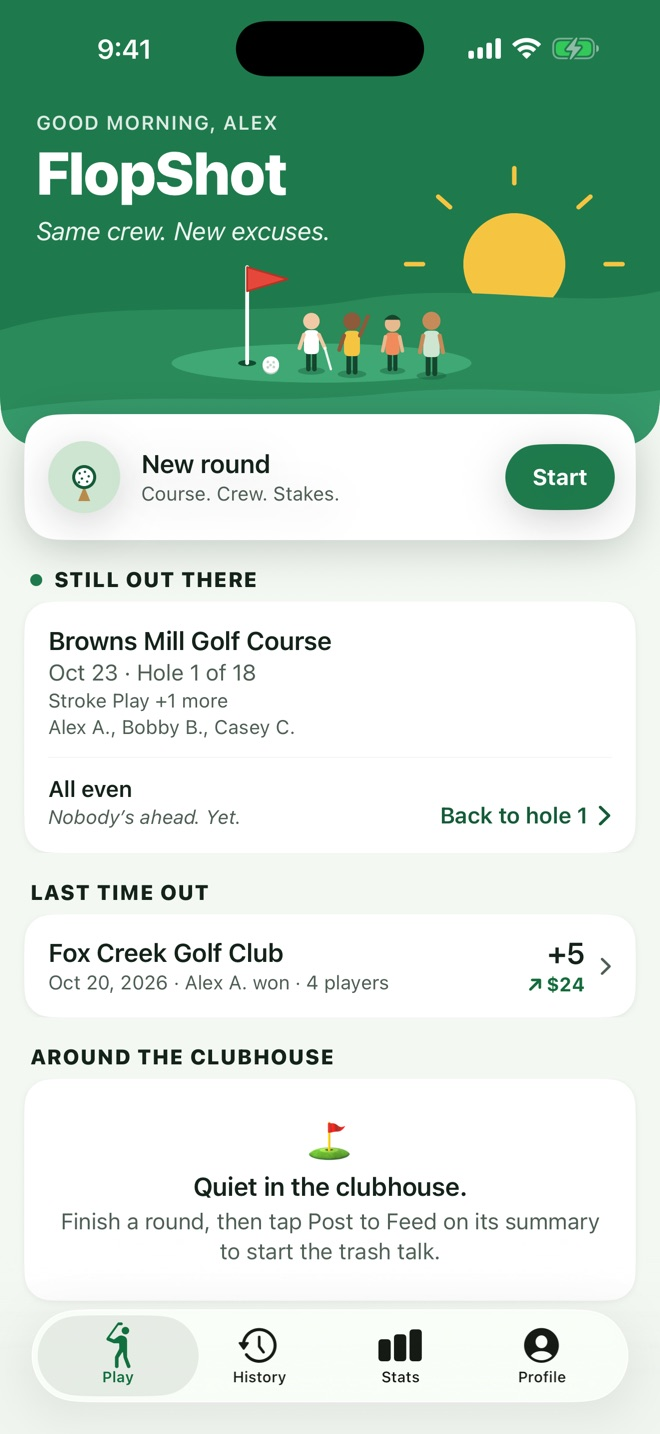
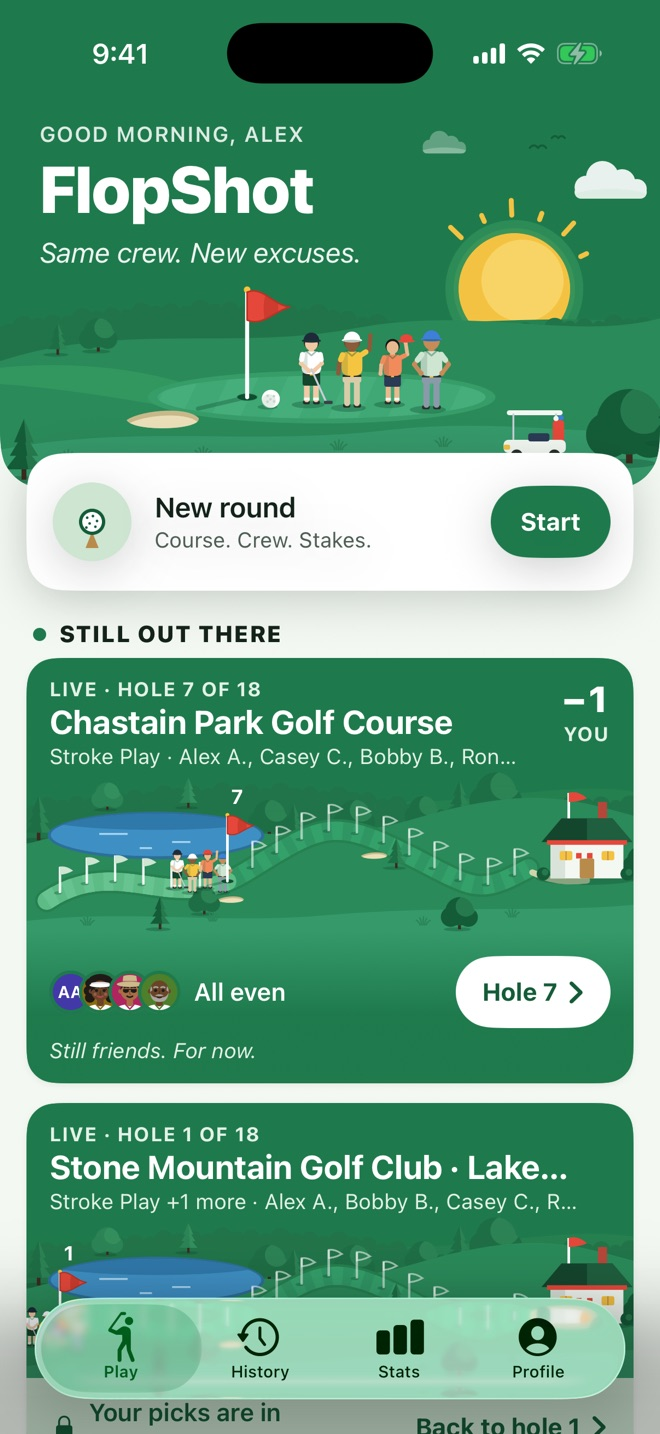
Cover yardages, spectators, tee-off posts, notifications and score fixes
Privacy and Terms are effective October 28, 2026. Location for yardages
stays on the phone; push tokens, spectators, live Feed rounds, who
reacted, fix history and OpenStreetMap are described. Support, Home and
the App Review guide explain the new features, and Home links the
TestFlight beta. New screenshots from made-up local test accounts: Play
Home, Score Entry with yardage, the Hole Map, the Feed, Predictions,
Settle Up and Stats.

diff --git a/privacy.html b/privacy.html
@@ -17,9 +17,9 @@
   </nav>
   <main>
     <h1>Privacy Policy</h1>
-    <p class="meta">Effective October 23, 2026</p>
+    <p class="meta">Effective October 28, 2026</p>
 
-    <p>This policy explains what the FlopShot app (“FlopShot”, “we”) collects, why, who can see it, and how you can delete it. The short version: we collect what the app needs to keep score, sync your rounds and let you play with friends. We don’t sell your data, show ads, or track you across other apps or websites.</p>
+    <p>This policy explains what the FlopShot app (“FlopShot”, “we”) collects, why, who can see it, and how you can delete it. The short version: we collect what the app needs to keep score, sync your rounds and let you play with friends. Your location never leaves your phone. We don’t sell your data, show ads, or track you across other apps or websites.</p>
 
     <h2>Using FlopShot without an account</h2>
     <p>Keeping score works without signing in. Your rounds, players and settings then stay on your phone only, and we receive none of it.</p>
@@ -42,25 +42,33 @@
       <li>Rounds: the course and tees, the players, scores, and any putts, fairways and greens you choose to track.</li>
       <li>The games you play, what each player won or lost, and the payments you mark as paid.</li>
       <li>Your Predictions picks for a round. Other players can’t see them until the round ends.</li>
+      <li>Fixes to a finished round: who changed which score, from what to what, and when.</li>
+      <li>Rounds you’re invited to watch or choose to watch, and the picks you make as a spectator.</li>
       <li>Players you add who don’t have an account (“guests”), with the name and optional Venmo username you type for them. Please only add details your friends are happy for you to add.</li>
       <li>Courses you search for or add. To find a course, our server sends the search words (never your personal details) to our course-data provider.</li>
     </ul>
     <h3>Friends and the Feed</h3>
     <ul>
       <li>Your friends, friend requests, round invitations and the accounts you block.</li>
-      <li>Quips and replies you post on the Feed, and your reactions.</li>
+      <li>Quips and replies you post on the Feed, including a line you post as you tee off, and your reactions.</li>
       <li>Reports you make about a quip or reply, with the reason you give and a copy of what you reported.</li>
     </ul>
+    <h3>Notifications (if you allow them)</h3>
+    <p>A push token that Apple gives your phone for FlopShot, so we can send round invites and friend requests, and your choices in <strong>Settings › Notifications</strong>. Pushes name who it’s from and the course, never money. Signing out stops pushes to that phone.</p>
     <h3>Support</h3>
     <p>Anything you send us when you ask for help.</p>
 
+    <h3 id="location">Your location (yardages)</h3>
+    <p>If you allow it, FlopShot uses your iPhone’s location to show the distance to the green and your spot on the Hole Map. It is used on your phone only, while a hole is on screen, and is <strong>never saved, sent to us or shared</strong>. You can say no, or turn off <strong>Settings › During a round › Show yardages</strong>; keeping score works the same either way. The hole maps themselves are course data (see OpenStreetMap below), not anything about you.</p>
+
     <h3>What we don’t collect</h3>
-    <p>We don’t collect your location, contacts, photos, advertising identifier or browsing activity. FlopShot has no ads and no third-party analytics or tracking. If you’ve allowed it in your iPhone’s settings, Apple may share crash reports and usage statistics with us; those don’t identify you.</p>
+    <p>We don’t collect your location (it stays on your phone, as above), contacts, photos, advertising identifier or browsing activity. FlopShot has no ads and no third-party analytics or tracking. If you’ve allowed it in your iPhone’s settings, Apple may share crash reports and usage statistics with us; those don’t identify you.</p>
 
     <h2>How we use it</h2>
     <ul>
       <li>To run the app: keep score, back up and sync your rounds between phones, and work out the money.</li>
       <li>To show your rounds and posts to the people you choose (see below).</li>
+      <li>To send the notifications you allow.</li>
       <li>To keep the Feed safe: we block slurs and other banned words, and we review reports to remove content or suspend accounts that break the <a href="terms.html#community">community rules</a>.</li>
       <li>To answer you when you contact us, and to fix problems.</li>
     </ul>
@@ -68,9 +76,10 @@
 
     <h2>Who can see what</h2>
     <ul>
-      <li><strong>Players in a round</strong> see that round in full, including the money.</li>
-      <li><strong>Your friends</strong> can see your rounds’ scores and results if you allow it (Settings › Privacy › Who sees your rounds). Friends who weren’t in a round never see its money.</li>
-      <li><strong>The Feed:</strong> a round you post, and your quips and replies, are shown to friends of the people who posted that round. The Feed never shows money.</li>
+      <li><strong>Players in a round</strong> see that round in full, including the money and who fixed which score after it finished.</li>
+      <li><strong>Your friends</strong> can see your rounds’ scores and results if you allow it (Settings › Privacy › Who sees your rounds), and a finished round’s Predictions picks and points. Friends who weren’t in a round never see its money.</li>
+      <li><strong>Spectators:</strong> friends a player invites to watch, and friends who join from a tee-off post, see the round’s players and scores live, never its money. Spectators’ picks, like players’ picks, stay hidden until the round finishes; then everyone in the round and its spectators can see them.</li>
+      <li><strong>The Feed:</strong> a round you post, and your quips and replies, are shown to friends of the people who posted that round. If you post as you tee off, they see the round while it’s being played (the players and how many holes are done, with no leader), and can open it to follow along. The Feed never shows money. Anyone who can see a post can see who reacted to it.</li>
       <li><strong>Your @handle and display name</strong> can be found by other signed-in users so they can add you as a friend or invite you. You choose who can invite you.</li>
       <li><strong>Your Venmo username</strong> is shown to people you play with, and to friends who add you to a round, so they can pay you.</li>
       <li>Someone you block can’t see your posts, and you can’t see theirs.</li>
@@ -81,7 +90,9 @@
     <ul>
       <li><strong>Supabase</strong>: our database, sign-in and server functions. Your account and synced data are stored with Supabase.</li>
       <li><strong>Apple and Google</strong>: sign-in. Their own privacy policies apply to your Apple or Google account.</li>
+      <li><strong>Apple</strong> also delivers push notifications, and provides the satellite pictures on the Hole Map (Apple Maps).</li>
       <li><strong>GolfCourseAPI</strong>: course data. It receives course search words only.</li>
+      <li><strong>OpenStreetMap</strong>: hole maps (greens, tees, bunkers and water). Our server asks OpenStreetMap’s map servers, and a copy run by OpenStreetMap France, about a course (its name and location). They never receive anything about you. Map data © OpenStreetMap contributors.</li>
       <li><strong>Resend</strong>: sends us an email when someone reports a quip or reply, containing the reported text and the accounts involved.</li>
     </ul>
     <p>When you tap a Venmo link, the Venmo app or website opens. FlopShot never sees or handles the payment, and Venmo’s own privacy policy applies.</p>
@@ -100,6 +111,8 @@
     <ul>
       <li>your profile, handle, handicap index and Venmo username;</li>
       <li>your friendships, invitations and blocks;</li>
+      <li>the rounds you watched and your spectator picks;</li>
+      <li>your push tokens and notification choices;</li>
       <li>your Feed quips, replies and reactions;</li>
       <li>rounds that nobody else with an account was in.</li>
     </ul>
@@ -109,6 +122,8 @@
     <h2>Your choices</h2>
     <ul>
       <li>Edit your profile and privacy choices in Profile and Settings.</li>
+      <li>Turn notifications on or off in <strong>Settings › Notifications</strong> (or in your iPhone’s Settings), and location in your iPhone’s Settings or with <strong>Settings › During a round › Show yardages</strong>.</li>
+      <li>Stop watching a round from its menu; decline an invitation to watch with <strong>×</strong>.</li>
       <li>Download your rounds as a spreadsheet file: <strong>Settings › Your data › Export my rounds</strong>.</li>
       <li>Delete a quip or reply you posted, block someone, or report something from the <strong>…</strong> button next to it.</li>
       <li>Ask us for a copy of your data, or for help deleting it, at <a href="mailto:flopshot.support@gmail.com">flopshot.support@gmail.com</a>.</li>

diff --git a/index.html b/index.html
@@ -4,7 +4,7 @@
   <meta charset="utf-8">
   <meta name="viewport" content="width=device-width, initial-scale=1">
   <title>FlopShot</title>
-  <meta name="description" content="FlopShot is a golf scorebook for friends who play money games: scores, Skins, Nassau, Wolf and more, settled up at the end.">
+  <meta name="description" content="FlopShot is a golf scorebook for friends who play money games: scores, Skins, Nassau, Wolf, Predictions and more, GPS yardages, and settling up at the end.">
   <link rel="stylesheet" href="style.css">
 </head>
 <body>
@@ -19,17 +19,21 @@
     <h1>FlopShot</h1>
     <p class="meta">A golf scorebook for your regular group.</p>
     <p>FlopShot keeps score for your round and the side games your group plays: Skins, Nassau, Wolf, Snake, Bingo Bango Bongo, Predictions and more. At the end it shows who owes whom, so settling up takes a minute. It keeps track of the money; it never holds or moves any.</p>
-    <p>Sign in to back up your rounds, score live with friends on their own phones, and post a finished round to your friends’ feed for a little trash talk. Keeping score works without an account.</p>
+    <p>On mapped courses it shows the yardage to the green as you walk up, with a satellite Hole Map for the rest of the hole. Your location never leaves your phone.</p>
+    <p>Sign in to back up your rounds, score live with friends on their own phones, and post your round to your friends’ feed as you tee off for a little trash talk. Friends can watch along live and make their own picks, and nobody but the players ever sees the money. Keeping score works without an account.</p>
     <h2>A look inside</h2>
     <div class="gallery">
-      <figure><img src="images/p1-playhome.jpg" alt="Play Home: a round in progress at Browns Mill Golf Course and the last round, won with plus 24 dollars" width="660" height="1434" loading="lazy"><figcaption>Your rounds at a glance</figcaption></figure>
-      <figure><img src="images/p2-summary.jpg" alt="Round Summary for Fox Creek Golf Club: a 67, putts, fairways and greens, and the scorecard showing Alex won by 4" width="660" height="1434" loading="lazy"><figcaption>The scorecard, settled</figcaption></figure>
-      <figure><img src="images/p3-settle.jpg" alt="Settle Up: Bobby pays Alex 4 dollars, Casey pays Alex 4 dollars, Ronny pays Alex 16 dollars, with Mark paid buttons" width="660" height="1434" loading="lazy"><figcaption>Who owes whom</figcaption></figure>
-      <figure><img src="images/p4-predictions.jpg" alt="Predictions results: each player's points and winnings, and your picks marked right or wrong" width="660" height="1434" loading="lazy"><figcaption>Predictions: make your picks before you tee off</figcaption></figure>
+      <figure><img src="images/p1-playhome.jpg" alt="Play Home: a live round at Chastain Park Golf Course on hole 7, with the group's avatars and Alex one under par" width="660" height="1434" loading="lazy"><figcaption>Your rounds at a glance</figcaption></figure>
+      <figure><img src="images/p2-score-entry.jpg" alt="Score Entry on hole 7, par 4: 154 yards to the green, Alex leading by 3, and a score row for each of four players" width="660" height="1434" loading="lazy"><figcaption>Score it hole by hole, yardage included</figcaption></figure>
+      <figure><img src="images/p3-hole-map.jpg" alt="Hole Map: a satellite view of hole 1 with the green, a bunker and water drawn on, a blue dot for the golfer, and front 154, center 164, back 174 yards" width="660" height="1434" loading="lazy"><figcaption>The Hole Map: front, center and back</figcaption></figure>
+      <figure><img src="images/p4-feed.jpg" alt="Around the clubhouse: Bobby's finished round with a quip, reactions and replies, and a live round Alex posted at the first tee" width="660" height="1434" loading="lazy"><figcaption>Trash talk, live from the course</figcaption></figure>
+      <figure><img src="images/p5-predictions.jpg" alt="Predictions results: Alex first with 10 of 22 points and plus 13 dollars, each player's points, and the picks Alex called right" width="660" height="1434" loading="lazy"><figcaption>Predictions: make your picks before you tee off</figcaption></figure>
+      <figure><img src="images/p6-settle.jpg" alt="Settle Up: Bobby pays Alex 9 dollars, Casey pays Alex 11 dollars, Ronny pays Alex 8 dollars, each with Pay on Venmo and Mark paid" width="660" height="1434" loading="lazy"><figcaption>Who owes whom</figcaption></figure>
+      <figure><img src="images/p7-stats.jpg" alt="Stats: plus 10.8 average to par over 12 rounds, scoring mix, putts, fairways, greens in regulation and penalties" width="660" height="1434" loading="lazy"><figcaption>Stats that keep score on you</figcaption></figure>
     </div>
     <p class="meta">Screens from a test account. Names and rounds are made up.</p>
     <div class="note">
-      <p><strong>FlopShot is in a private beta.</strong> If a friend sent you here, ask them for a TestFlight invitation. TestFlight is Apple’s app for trying apps before they’re in the App Store.</p>
+      <p><strong>FlopShot is in beta.</strong> <a href="https://testflight.apple.com/join/e5r6QS9n">Join the beta on TestFlight</a> from your iPhone. TestFlight is Apple’s free app for trying apps before they’re in the App Store; the link shows you how to get it.</p>
     </div>
     <h2>Help and policies</h2>
     <ul>

diff --git a/reviewer.html b/reviewer.html
@@ -52,7 +52,7 @@
 
     <div class="step">
       <figure>
-        <img src="images/p1-playhome.jpg" alt="Play Home after signing in: a round in progress, the last round, and Around the clubhouse" width="660" height="1434">
+        <img src="images/p1-playhome.jpg" alt="Play Home after signing in: a live round under Still out there, with the group's avatars" width="660" height="1434">
       </figure>
       <div>
         <h3><span class="num">3</span>You’re in</h3>
@@ -64,11 +64,21 @@
     <h2>Where to find things</h2>
 
     <h3>Keeping score</h3>
-    <p>On <strong>Play Home</strong>, open the round under <strong>Still out there</strong> to score a hole, or tap <strong>New round</strong> to start one. Finished rounds are in the <strong>History</strong> tab, and totals are in <strong>Stats</strong>.</p>
+    <p>On <strong>Play Home</strong>, open the round under <strong>Still out there</strong> to score a hole, or tap <strong>New round</strong> to start one. Finished rounds are in the <strong>History</strong> tab, and totals are in <strong>Stats</strong>. On a finished round’s summary, <strong>Fix a score</strong> corrects a mistake, and everyone in the round sees what changed.</p>
+
+    <h3>Yardages and location</h3>
+    <ul>
+      <li>On courses OpenStreetMap has mapped, Score Entry shows the yardage to the green, and tapping it opens the <strong>Hole Map</strong>.</li>
+      <li>On a mapped hole, the yardage capsule offers <strong>See how far to the green</strong> › <strong>Turn on yardages</strong>, and only then does iOS ask for location <strong>While Using the App</strong>. Location is read only while a hole is on screen. Location is used on the phone only and is never saved or sent to our server (<a href="privacy.html#location">Privacy Policy</a>). Saying no only hides the yardage; everything else works.</li>
+      <li><strong>Profile › Settings › During a round › Show yardages</strong> turns the feature off, for leagues that don’t allow distance devices.</li>
+    </ul>
+
+    <h3>Watching a round</h3>
+    <p>Friends can watch a round live, without its money, and make their own picks before the first score. Invites show on <strong>Play Home</strong>; a friend’s tee-off post in the Feed has a <strong>Watch</strong> button. Finished watched rounds are in <strong>Profile › Rounds you watched</strong>.</p>
 
     <h3>Friends Feed (user-generated content, guideline 1.2)</h3>
     <ul>
-      <li>Scroll down <strong>Play Home</strong> to <strong>Around the clubhouse</strong>. Friends post a finished round with a short quip, react, and reply.</li>
+      <li>Scroll down <strong>Play Home</strong> to <strong>Around the clubhouse</strong>. Friends post a round with a short quip, as they tee off or when they finish, react, and reply. Hold a reaction to see who sent it.</li>
       <li>Tap the <strong>…</strong> button next to any quip or reply: <strong>Report…</strong>, <strong>Block</strong>, and <strong>Delete</strong> for your own posts.</li>
       <li>Slurs, hate and explicit sexual words are refused by the server in posts, replies, names and handles. Everyday swearing is hidden as “s***” unless the user turns on <strong>Profile › Settings › Feed › Allow s*** talk</strong> (off by default).</li>
       <li>Reports email us at once, and we act on them within 24 hours: we hide the content and can suspend the account. The rules are in the <a href="terms.html#community">Terms of Use</a>.</li>
@@ -82,12 +92,13 @@
       <li><strong>Delete account:</strong> Profile › Settings › Account › Delete account (guideline 5.1.1(v)).</li>
       <li><strong>Who sees your rounds</strong> and <strong>who can invite you:</strong> Profile › Settings › Privacy.</li>
       <li><strong>Blocked accounts:</strong> Profile › Settings › Privacy › Blocked accounts.</li>
+      <li><strong>Notifications:</strong> FlopShot asks with its own card first, when an invite or friend request makes it useful, then iOS asks. Profile › Settings › Notifications has a switch for round invites and one for friend requests. Pushes never mention money.</li>
       <li><strong>Help, feedback, Privacy Policy and Terms:</strong> Profile › Settings › Help &amp; legal.</li>
       <li><strong>Without an account:</strong> “Continue without an account” keeps score on the phone only.</li>
     </ul>
 
     <h3>About this build</h3>
-    <p>This beta is connected to FlopShot’s test server, so the review account’s data may be reset between builds.</p>
+    <p>This beta is connected to FlopShot’s test server, kept apart from the App Store version’s data. Other test accounts may add rounds and posts to the review account’s Feed between builds.</p>
 
     <h2>Questions</h2>
     <p>Email <a href="mailto:flopshot.support@gmail.com">flopshot.support@gmail.com</a>. We’ll reply as quickly as we can.</p>

diff --git a/support.html b/support.html
@@ -41,7 +41,22 @@
     <p>Swearing is hidden by default. To see it as written, turn on <strong>Settings › Feed › Allow s*** talk</strong>. The same switch also gives FlopShot’s own jokes a saltier voice.</p>
 
     <h3>Who can see my rounds and my money?</h3>
-    <p>Players in a round see everything, including the money. Friends can see scores and results (never money) if you allow it in <strong>Settings › Privacy</strong>.</p>
+    <p>Players in a round see everything, including the money. Friends can see scores and results (never money) if you allow it in <strong>Settings › Privacy</strong>. Spectators see the round live, also without money.</p>
+
+    <h3>How do I watch a friend’s round?</h3>
+    <p>A player can invite you to watch on the “Look good?” screen before they tee off, or from the round’s menu later. The invitation shows on <strong>Play Home</strong>: tap <strong>Watch and pick</strong> to make your own picks before the first score, or <strong>Just watch</strong>. If a friend posts their round to the Feed as they tee off, tap <strong>Watch</strong> on the card. Finished rounds you watched are in <strong>Profile › Rounds you watched</strong>; they don’t count in your History or Stats.</p>
+
+    <h3>How do I post my round as I tee off?</h3>
+    <p>On the “Look good?” screen, turn on <strong>Post to Feed</strong> above Tee it up, or use <strong>Post tee-off…</strong> in Score Entry’s <strong>⋯</strong> menu. Friends see “Teeing off”, then the holes played as you go, and your result at the end. Your finish quip replaces your tee-off line.</p>
+
+    <h3>How do I fix a score after the round?</h3>
+    <p>Open the round and tap <strong>Fix a score</strong> on the scorecard. Change what you need, check whose money moves, then tap <strong>Save</strong>. Everyone in the round sees a note saying what changed. If someone already paid, Settle Up shows what’s left or what to pay back.</p>
+
+    <h3>Why don’t I see yardages?</h3>
+    <p>Yardages and the Hole Map only show on courses that OpenStreetMap has mapped hole by hole; the “Look good?” screen says whether a course has them. Also check that <strong>Settings › During a round › Show yardages</strong> is on and that FlopShot may use your location (iPhone Settings › FlopShot › Location). Yardages are to the front, center and back of the green, not the pin. Your location is used only on your phone, and the map keeps working without signal once the course has loaded.</p>
+
+    <h3>How do I turn notifications on or off?</h3>
+    <p>FlopShot can notify you about round invites and friend requests. Choose which in <strong>Settings › Notifications</strong>. If they’re off in your iPhone’s settings, that section has an <strong>Open Settings</strong> button. Notifications never mention money.</p>
 
     <h3>Does FlopShot handle payments?</h3>
     <p>No. It works out who owes whom; paying is up to you. Venmo links open the Venmo app.</p>

diff --git a/terms.html b/terms.html
@@ -17,7 +17,7 @@
   </nav>
   <main>
     <h1>Terms of Use</h1>
-    <p class="meta">Effective October 21, 2026</p>
+    <p class="meta">Effective October 28, 2026</p>
 
     <p>These terms are an agreement between you and FlopShot (“we”) about using the FlopShot app. By using FlopShot you agree to them. If you don’t agree, please don’t use the app.</p>
 
@@ -32,10 +32,10 @@
       <li>Payment links open Venmo, a separate service with its own terms.</li>
       <li>You’re responsible for following the laws that apply where you play.</li>
     </ul>
-    <p>We work hard to get the math right, but if a result looks wrong, check it with your group before anyone pays.</p>
+    <p>We work hard to get the math right, but if a result looks wrong, check it with your group before anyone pays. Any player can fix a score after the round, and FlopShot shows everyone in it what changed.</p>
 
     <h2 id="community">3. Community rules</h2>
-    <p>The Feed is for friendly trash talk about golf. <strong>We have zero tolerance for objectionable content or abusive users.</strong> Don’t post, or use as your name or handle, anything that:</p>
+    <p>The Feed is for friendly trash talk about golf. <strong>We have zero tolerance for objectionable content or abusive users.</strong> Don’t post (as a quip, a tee-off line or a reply), or use as your name or handle, anything that:</p>
     <ul>
       <li>harasses, bullies, threatens or targets a person;</li>
       <li>contains slurs or hate based on race, ethnicity, religion, gender, sexual orientation, disability or any other protected group;</li>
@@ -54,8 +54,9 @@
     <h2>4. Your content</h2>
     <p>You own what you post and enter. You give us permission to store it and show it to the people you choose, only so we can run FlopShot. You’re responsible for what you post and for having permission to add your friends’ names and details.</p>
 
-    <h2>5. Course information</h2>
+    <h2>5. Course information and yardages</h2>
     <p>Course details come partly from a third-party provider and partly from users, and may be incomplete or out of date. Check the scorecard at the course if something looks wrong.</p>
+    <p>Hole maps come from OpenStreetMap, a map made by volunteers, and yardages are measured from your phone’s GPS to the green, not the pin. Both are estimates and can be off. Some leagues and events don’t allow distance devices: follow your competition’s rules, and turn off <strong>Settings › During a round › Show yardages</strong> when they say so.</p>
 
     <h2>6. Beta versions</h2>
     <p>Test versions of FlopShot (for example through TestFlight) are unfinished. Features may change or disappear, and data in a test version may be reset.</p>

diff --git a/README.md b/README.md
@@ -5,6 +5,8 @@ Public website for the FlopShot iOS app, served by GitHub Pages at https://jhjon
 - `privacy.html`: Privacy Policy (must match the App Privacy answers in App Store Connect)
 - `terms.html`: Terms of Use, including the Feed community rules (App Store guideline 1.2)
 - `support.html`: Support page and FAQ (the App Store "Support URL")
-- `index.html`: home page, also the "Invite a friend" link until there's a TestFlight or App Store link
+- `index.html`: home page (the App Store "Marketing URL")
+- `reviewer.html`: the App Review guide (sign-in steps and where to find things; never holds credentials, `noindex`)
+- `images/`: screenshots for the home page and the review guide, from test accounts with made-up names
 
 The app links to these pages from `Brand.swift`. Change a URL there if a page moves.
